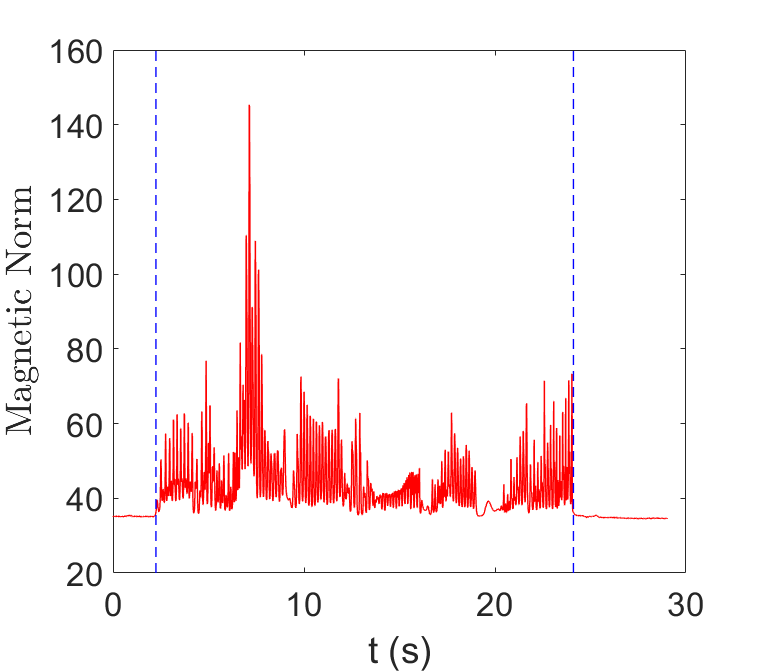
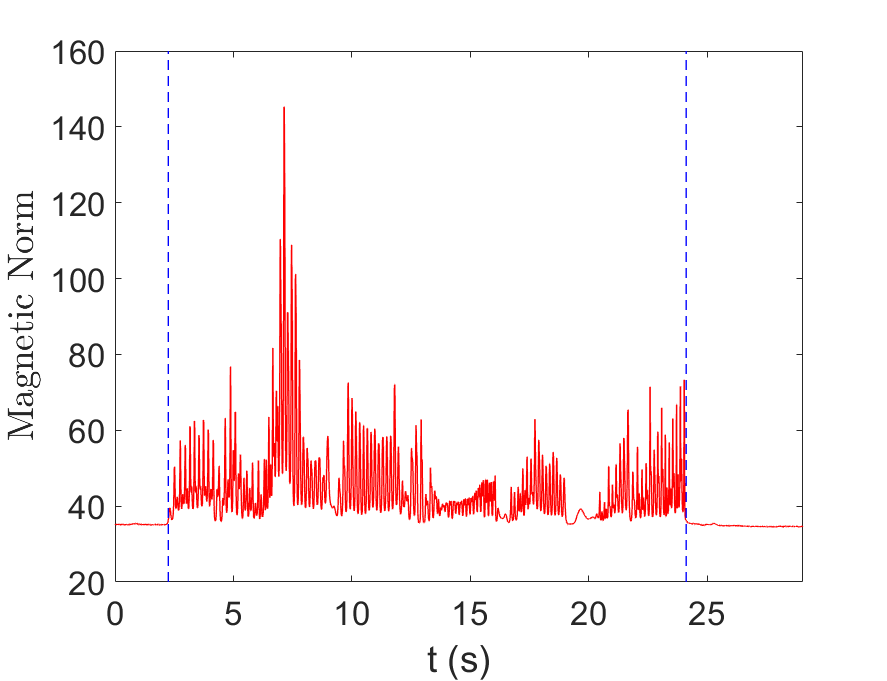
revise the fig of static test

diff --git a/mag_elimination/mag_test/mag_eliminate_statictest.m b/mag_elimination/mag_test/mag_eliminate_statictest.m
@@ -5,8 +5,8 @@ clear all
 addpath(genpath('../Data'));
 addpath(genpath('../Orientation'));
 % load('mag_disturb_static_4.mat')
-% load('mag_stabledisturb_static_2.mat')
-load('imu-static-stable.mat')
+load('mag_stabledisturb_static_2.mat')
+% load('imu-static-stable.mat')
 % obtain the orientation
 fs=IMU.Acc_fs;
 sample_freq=fs;
@@ -319,7 +319,7 @@ x_last = t_eul(find(Mag_norm > threshold, 1, 'last'));
 plot([x_first, x_first], ylim, 'b--', 'LineWidth', 1);  % 第一个竖线
 plot([x_last, x_last], ylim, 'b--', 'LineWidth', 1);  % 第二个竖线
 set(gca,'FontSize',25)
-
+xlim([0,t_eul(end)])
 
 figure
 
